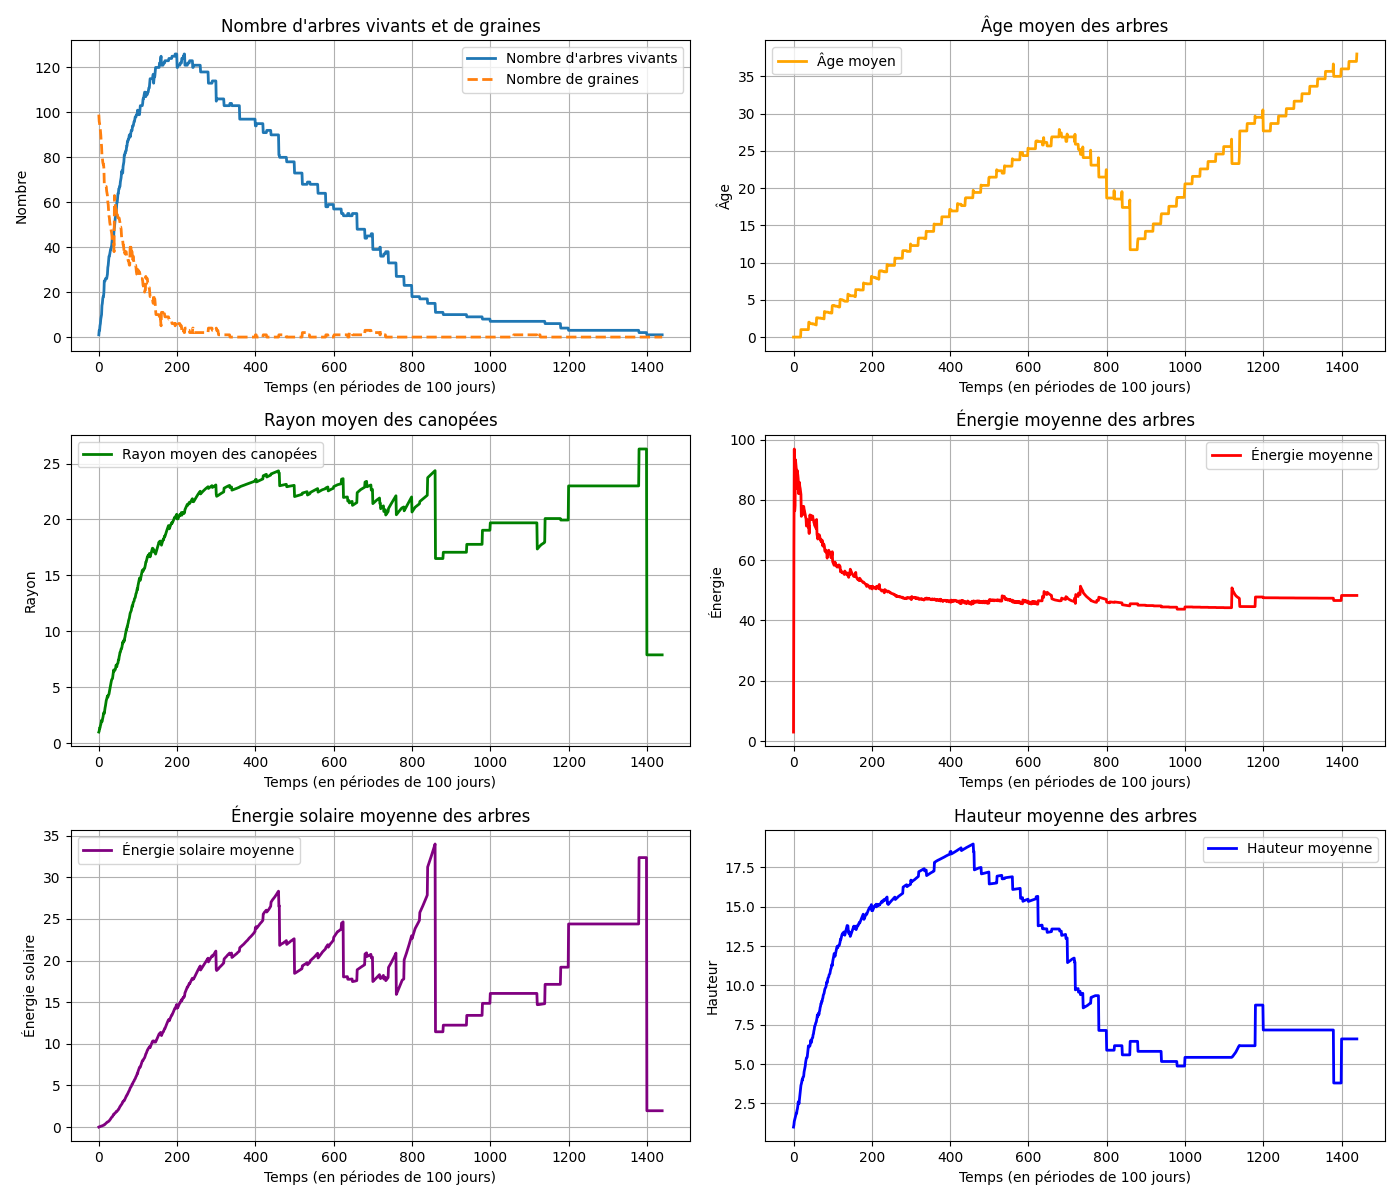
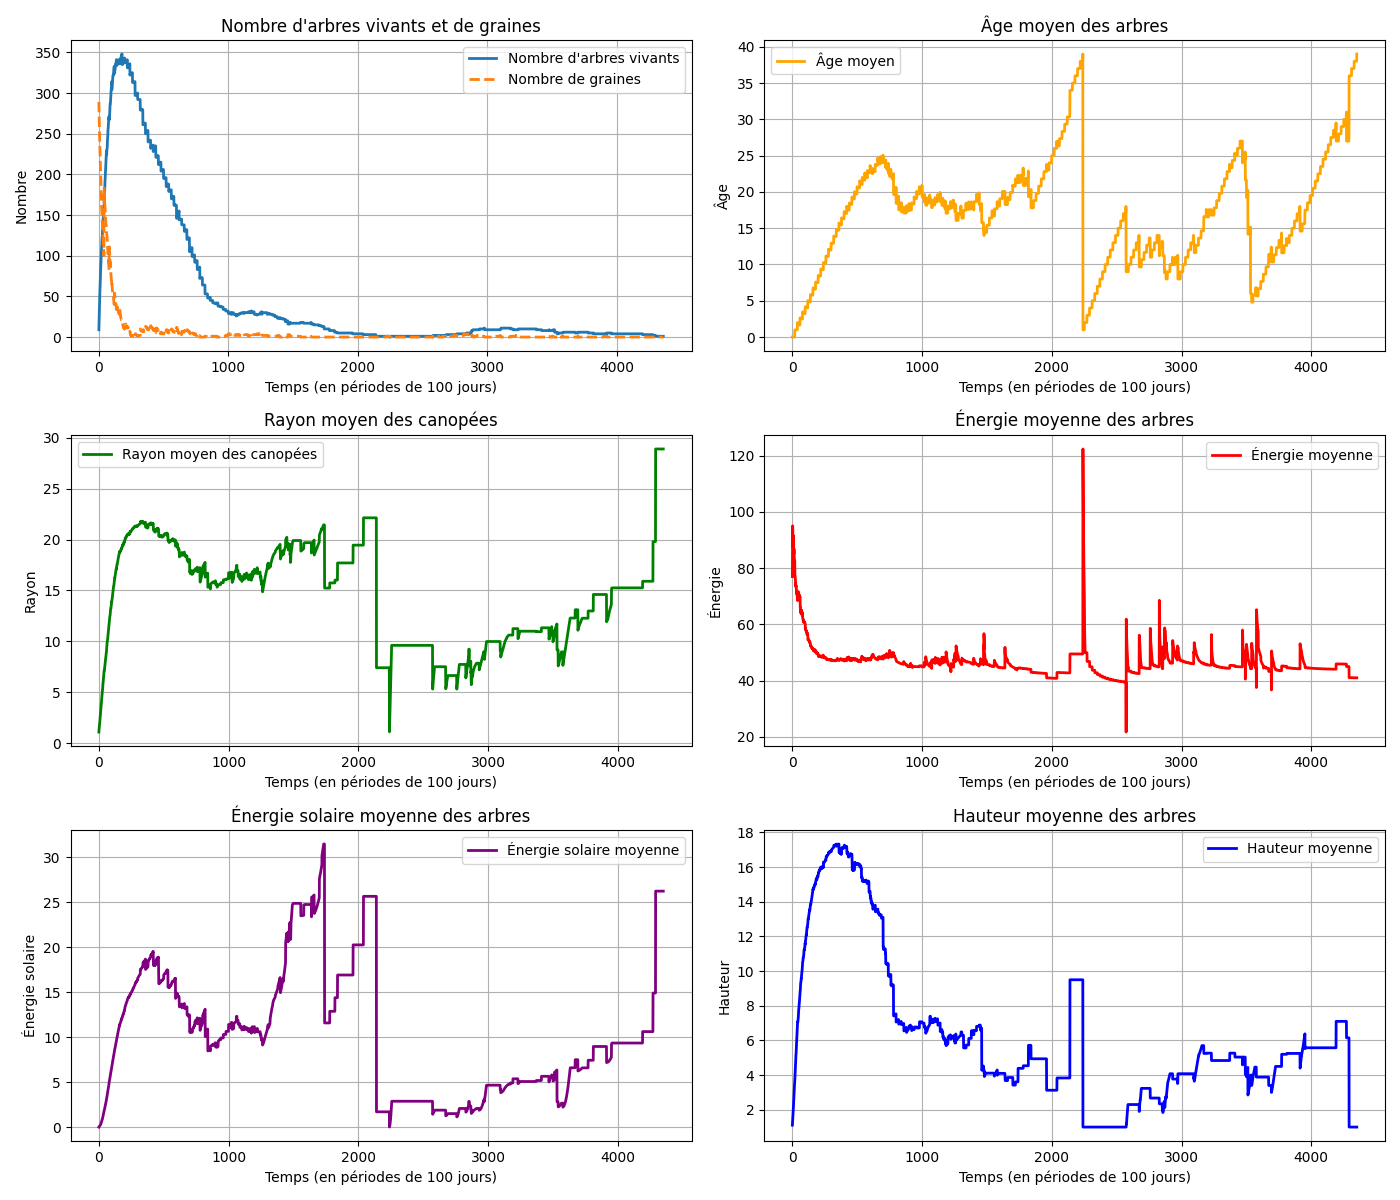
Increase initial tree count to 300 and optimize seed production logic in Arbre class

diff --git a/simulation_objects/arbre.py b/simulation_objects/arbre.py
@@ -78,46 +78,47 @@ class Arbre:
             self.dernier_reproduction += 1
 
     def produire_graine(
-            self,
-            arbres: List['Arbre'],
-            width:int,
-            height: int,
-            nutrient_map: np.ndarray,
-            max_graines_zone: int,
-            max_graines_total: int
-    ): ### Il y a 2 boucles for c'est pas ouf
-        # Limite de graines par zone
-        graines_dans_zone = 0
-        for autre_arbre in arbres:
-            dist = np.linalg.norm(self.pos - autre_arbre.pos)
-            if dist <= self.zone_action and autre_arbre.state == "seed":
-                graines_dans_zone += 1
-
-        if graines_dans_zone >= max_graines_zone or self.graines_produites >= max_graines_total:
-            return
-
+        self,
+        arbres: List['Arbre'],
+        width: int,
+        height: int,
+        nutrient_map: np.ndarray,
+        max_graines_zone: int,
+        max_graines_total: int
+):
         # Générer une position aléatoire dans la zone d'action
-        x_min = int (max(0, self.pos[0] - max_graines_zone))
-        x_max = int (min(width - 1, self.pos[0] + max_graines_zone))
-        y_min = int (max(0, self.pos[1] - max_graines_zone))
-        y_max = int (min(height - 1, self.pos[1] + max_graines_zone))
+        x_min = int(max(0, self.pos[0] - max_graines_zone))
+        x_max = int(min(width - 1, self.pos[0] + max_graines_zone))
+        y_min = int(max(0, self.pos[1] - max_graines_zone))
+        y_max = int(min(height - 1, self.pos[1] + max_graines_zone))
 
         new_x = random.randint(x_min, x_max)
         new_y = random.randint(y_min, y_max)
 
-        # Vérifier que la position est valide (pas de conflit avec d'autres arbres)
+        graines_dans_zone = 0
         position_valide = True
+
+        # Une seule boucle pour vérifier à la fois le nombre de graines dans la zone
+        # et la validité de la position pour planter une nouvelle graine
         for autre_arbre in arbres:
-            dist = np.linalg.norm([new_x - autre_arbre.pos[0], new_y - autre_arbre.pos[1]])
-            if dist < autre_arbre.rayon_top:
+            dist = np.linalg.norm(self.pos - autre_arbre.pos)
+            if dist <= self.zone_action and autre_arbre.state == "seed":
+                graines_dans_zone += 1
+                # Si on a déjà trop de graines, pas la peine de continuer
+                if graines_dans_zone >= max_graines_zone:
+                    position_valide = False
+                    break
+
+            dist_new = np.linalg.norm([new_x - autre_arbre.pos[0], new_y - autre_arbre.pos[1]])
+            if dist_new < autre_arbre.rayon_top:
                 position_valide = False
                 break
 
-        if position_valide:
+        if position_valide and graines_dans_zone < max_graines_zone and self.graines_produites < max_graines_total:
             nutriments = nutrient_map[int(new_x) % width, int(new_y) % height]
-            nouveaux_arbre = Arbre(new_x, new_y, nutriments)
-            nouveaux_arbre.color = self.color
-            arbres.append(self.mutation(nouveaux_arbre))
+            nouvel_arbre = Arbre(new_x, new_y, nutriments)
+            nouvel_arbre.color = self.color
+            arbres.append(self.mutation(nouvel_arbre))
             self.graines_produites += 1
 
     def mutation(self,new_arbre: 'Arbre'):   # Mutations aléatoires

diff --git a/main.py b/main.py
@@ -107,6 +107,6 @@ def main(numb_tree = 50):
     return number_of_tree_vivants, number_of_seeds,mean_age, mean_rayons_tops,mean_energies, mean_energies_solaires, mean_hauteurs
 
 if __name__ == '__main__':
-    number_of_tree_vivants, number_of_seeds, mean_age, mean_rayons_tops,mean_energies, mean_energies_solaires, mean_hauteurs = main(200)
+    number_of_tree_vivants, number_of_seeds, mean_age, mean_rayons_tops,mean_energies, mean_energies_solaires, mean_hauteurs = main(300)
     graphiques(number_of_tree_vivants, number_of_seeds, mean_age, mean_rayons_tops, 
                mean_energies, mean_energies_solaires, mean_hauteurs)
